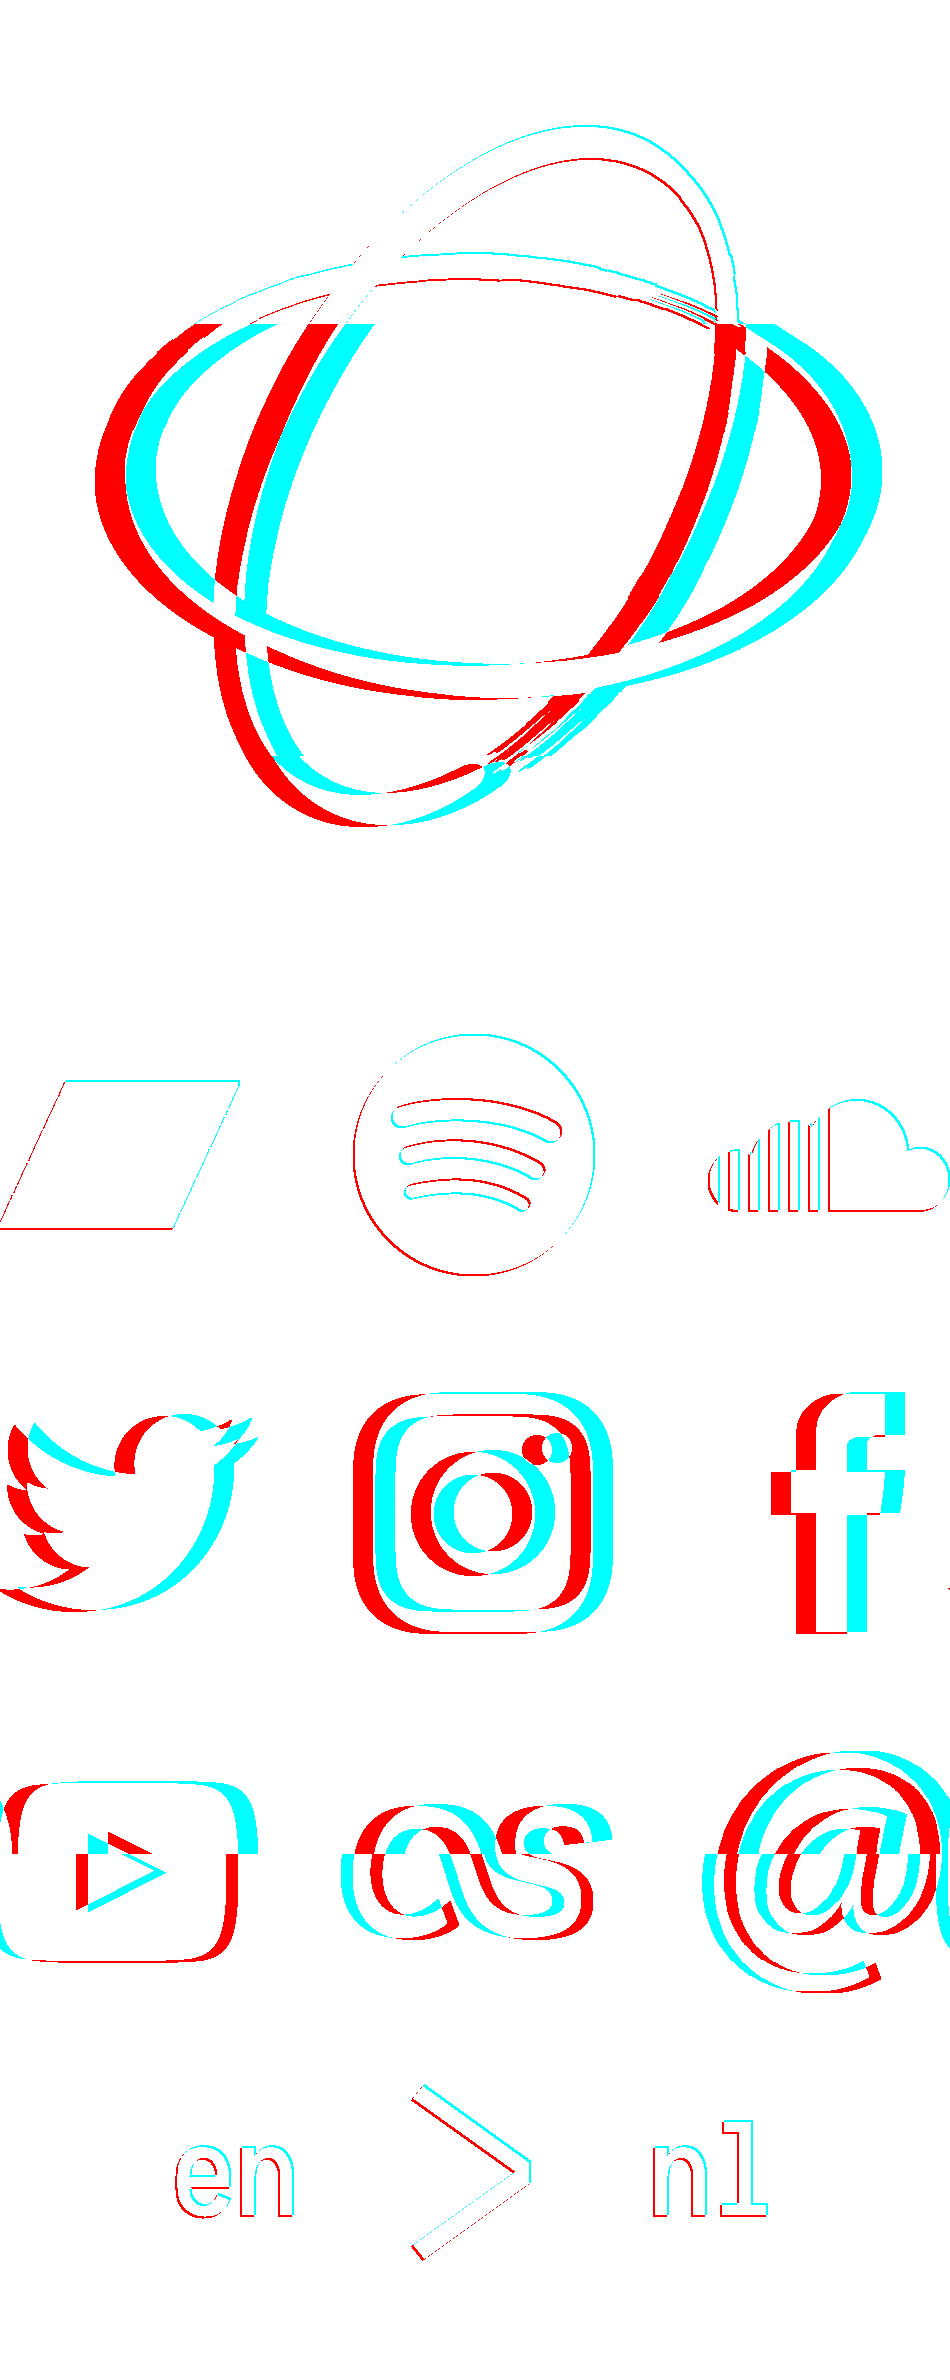
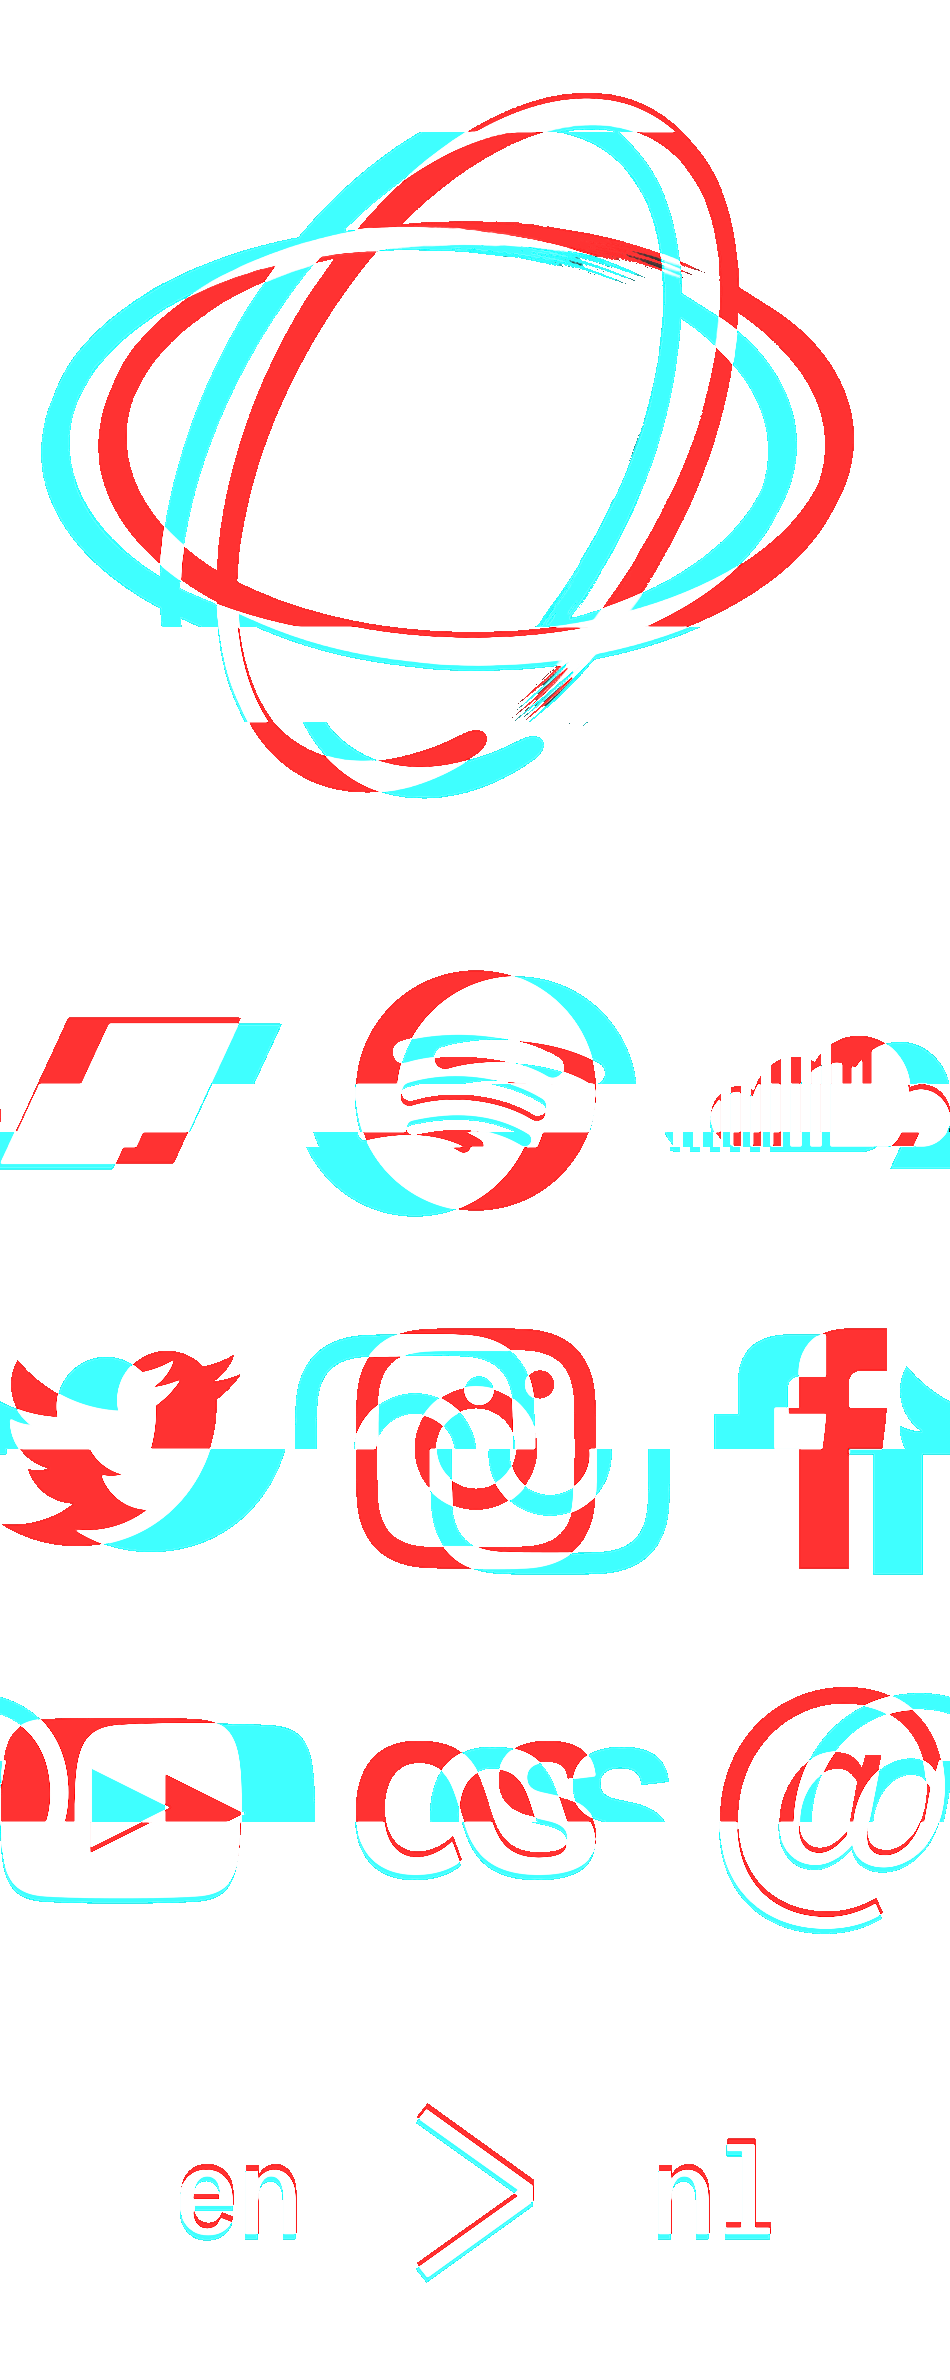
new image map

diff --git a/index.html b/index.html
@@ -190,17 +190,17 @@
         <div id="delta">
             <img draggable="false" id="imagemap" src="/img/imagemap.png" usemap="#map">
             <map name="map">
-                <area shape="rect" coords="0, 1034, 240, 1274" href="https://lyramsr.bandcamp.com/" alt="Bandcamp" title="Bandcamp">
-                <area shape="rect" coords="355, 1034, 595, 1274" href="spotify:artist:14i5SUux2GrvXhBgMduUH2" alt="Spotify" title="Spotify">
-                <area shape="rect" coords="710, 1034, 950, 1274" href="https://soundcloud.com/lyramsr" target="_blank" alt="Soundcloud" title="Soundcloud">
-                <area shape="rect" coords="0, 1392, 240, 1632" href="https://twitter.com/lyramsr" target="_blank" alt="Twitter" title="Twitter">
-                <area shape="rect" coords="355, 1392, 595, 1632" href="https://instagram.com/lyraisonyourside" target="_blank" alt="Instagram" title="Instagram">
-                <area shape="rect" coords="710, 1392, 950, 1632" href="https://facebook.com/lyramsr" target="_blank" alt="Facebook" title="Facebook">
-                <area shape="rect" coords="0, 1750, 240, 1990" href="https://youtube.com/lyramsr" target="_blank" alt="YouTube" title="YouTube">
-                <area shape="rect" coords="355, 1750, 595, 1990" href="https://last.fm/user/lyramsr" target="_blank" alt="Last.fm" title="Last.fm">
-                <area shape="rect" coords="710, 1750, 950, 1990" href="mailto:hi@lyramsr.co" alt="Mail" title="Mail">
-                <area shape="rect" coords="122, 2042, 570, 2294" href="/hi" alt="English" title="English">
-                <area shape="rect" coords="600, 2042, 812, 2294" href="/hoi" alt="Nederlands" title="Nederlands">
+                <area shape="rect" coords="0, 1023, 240, 1169" href="https://lyramsr.bandcamp.com/" alt="Bandcamp" title="Bandcamp">
+                <area shape="rect" coords="355, 976, 594, 1216" href="spotify:artist:14i5SUux2GrvXhBgMduUH2" alt="Spotify" title="Spotify">
+                <area shape="rect" coords="710, 1041, 949, 1152" href="https://soundcloud.com/lyramsr" target="_blank" alt="Soundcloud" title="Soundcloud">
+                <area shape="rect" coords="0, 1356, 239, 1552" href="https://twitter.com/lyramsr" target="_blank" alt="Twitter" title="Twitter">
+                <area shape="rect" coords="355, 1334, 594, 1574" href="https://instagram.com/lyraisonyourside" target="_blank" alt="Instagram" title="Instagram">
+                <area shape="rect" coords="773, 1334, 886, 1574" href="https://facebook.com/lyramsr" target="_blank" alt="Facebook" title="Facebook">
+                <area shape="rect" coords="0, 1723, 239, 1903" href="https://youtube.com/lyramsr" target="_blank" alt="YouTube" title="YouTube">
+                <area shape="rect" coords="355, 1746, 594, 1880" href="https://last.fm/user/lyramsr" target="_blank" alt="Last.fm" title="Last.fm">
+                <area shape="rect" coords="719, 1693, 942, 1933" href="mailto:hi@lyramsr.co" alt="Mail" title="Mail">
+                <area shape="rect" coords="179, 2109, 532, 2282" href="/hi" alt="English" title="English">
+                <area shape="rect" coords="658, 2144, 769, 2239" href="/hoi" alt="Nederlands" title="Nederlands">
             </map>
         </div>
         <div id="glitch1"></div>
